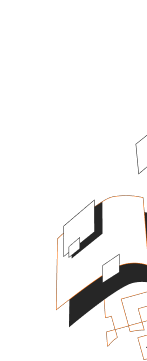
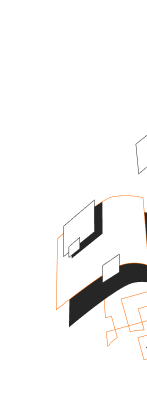
update review comment

diff --git a/css/main.css b/css/main.css
@@ -6,14 +6,19 @@ header {
   display: flex;
   justify-content: space-between;
   align-items: center;
+  height: 48px;
 }
 
 .hamburger-menu {
   width: 30px;
 }
 
+.title a {
+  text-decoration: none;
+}
+
 .title h5 {
-  color: white;
+  color: #fff;
   font-size: 18px;
   font-family: 'Roboto', sans-serif;
   font-weight: 700;
@@ -21,21 +26,23 @@ header {
 
 .main-container {
   padding-left: 20px;
-  background-color: black;
+  background-color: #1c1a19;
   background-image: url(../icons/illustration-header-mobile.png);
   background-size: auto;
   background-repeat: no-repeat;
-  background-position: right bottom;
-  height: 100vh;
+  background-position: right;
+  background-position-y: 35vh;
+  height: 590px;
 }
 
 .main-container h1 {
   margin: 0;
-  padding-top: 100px;
+  padding-top: 120px;
   color: #ff6b00;
   font-family: 'Crete Round', serif;
   font-size: 56px;
   font-weight: 400;
+  line-height: 1.1em;
 }
 
 .main-container h3 {
@@ -51,14 +58,17 @@ header {
   font-size: 16px;
   font-family: 'Poppins', sans-serif;
   font-weight: 400;
-  width: 90vw;
+  width: 88vw;
 }
 
 .social-media-icon {
   margin: 0;
   padding-left: 3px;
   display: inline-flex;
-  width: 180px;
-  align-items: center;
-  justify-content: space-between;
+  width: 200px;
+  column-gap: 21px;
+}
+
+.social-media-icon li {
+  list-style: none;
 }

diff --git a/index.html b/index.html
@@ -11,7 +11,7 @@
 <body>
   <header>
     <div class="title">
-      <h5>Rohit Bhatt</h5>
+      <a href="#"><h5>Rohit Bhatt</h5></a>
     </div>
     <nav class="menu">
      <a href="#">
@@ -20,12 +20,12 @@
     </nav>
   </header>
   <main class="main-container">
-    <h1>Hey There. <br> I'm Rohit Bhatt</h1>
+    <h1>Hey There. <br> I'm Rohit</h1>
     <h3>I’am a Software Developer</h3>
     <p>I can help you build a product , feature or website Look through some of my work and experience! If you like what you see and have a project you need coded, 
       don’t hestiate to contact me.</p>
       <ul class="social-media-icon">
-        <li><a rel="noopener" href="https://github.com/rbhatt199924" target="_blank"><img src="./icons/github.svg" alt=""></a></li>
+        <li><a rel="noopener" href="https://github.com/rbhatt1999" target="_blank"><img src="./icons/github.svg" alt=""></a></li>
         <li><a rel="noopener" href="https://www.linkedin.com/in/rohit-bhatt-747166193/" target="_blank"><img src="./icons/Linkedin_icon.svg" alt=""></a></li>
         <li><a rel="noopener" href="https://twitter.com/rohitbh02837778" target="_blank"><img src="./icons/twitter.svg" alt=""></a></li>
       </ul>
